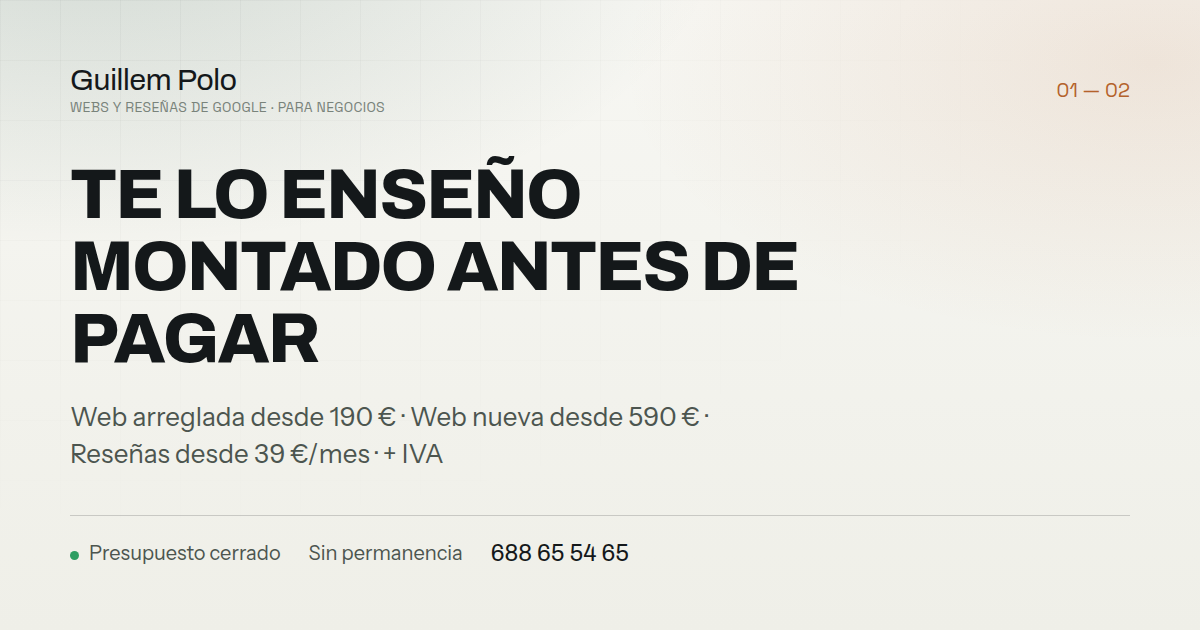
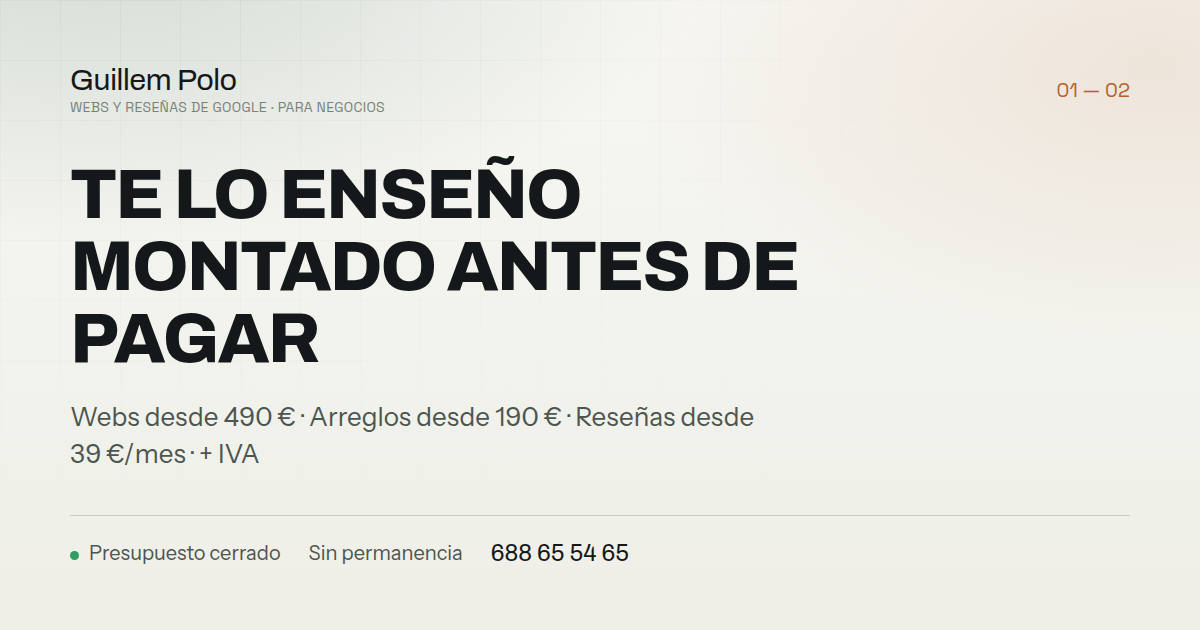
Web básica 490 y completa 590 con cuotas de 15 y 19 €/mes

Changed region(s): [[0.0617, 0.6333, 0.6167, 0.754]]

diff --git a/paginas-web.html b/paginas-web.html
@@ -4,7 +4,7 @@
 <meta charset="utf-8">
 <meta name="viewport" content="width=device-width, initial-scale=1">
 <title>Páginas web para negocios desde 190 € + IVA · Guillem Polo</title>
-<meta name="description" content="Web rápida, visible en Google y que actualizas tú en dos minutos. Textos incluidos, aviso legal y cookies, entrega en 3 días. Arreglo desde 190 € y web nueva desde 590 € + IVA, con precio cerrado.">
+<meta name="description" content="Web rápida, visible en Google y que actualizas tú en dos minutos. Textos incluidos, aviso legal y cookies, entrega en 3 días. Arreglo desde 190 €, web básica 490 € y web completa 590 € + IVA, con precio cerrado.">
 <meta name="author" content="Guillem Polo">
 <meta name="robots" content="index, follow">
 <link rel="canonical" href="https://guillempolo.vercel.app/paginas-web">
@@ -12,14 +12,14 @@
 <meta property="og:locale" content="es_ES">
 <meta property="og:site_name" content="Guillem Polo">
 <meta property="og:title" content="Páginas web para negocios desde 190 € + IVA · Guillem Polo">
-<meta property="og:description" content="Web rápida, visible en Google y que actualizas tú en dos minutos. Textos incluidos, aviso legal y cookies, entrega en 3 días. Arreglo desde 190 € y web nueva desde 590 € + IVA, con precio cerrado.">
+<meta property="og:description" content="Web rápida, visible en Google y que actualizas tú en dos minutos. Textos incluidos, aviso legal y cookies, entrega en 3 días. Arreglo desde 190 €, web básica 490 € y web completa 590 € + IVA, con precio cerrado.">
 <meta property="og:url" content="https://guillempolo.vercel.app/paginas-web">
 <meta property="og:image" content="https://guillempolo.vercel.app/og-paginas-web.png">
 <meta property="og:image:width" content="1200">
 <meta property="og:image:height" content="630">
 <meta name="twitter:card" content="summary_large_image">
 <meta name="twitter:title" content="Páginas web para negocios desde 190 € + IVA · Guillem Polo">
-<meta name="twitter:description" content="Web rápida, visible en Google y que actualizas tú en dos minutos. Textos incluidos, aviso legal y cookies, entrega en 3 días. Arreglo desde 190 € y web nueva desde 590 € + IVA, con precio cerrado.">
+<meta name="twitter:description" content="Web rápida, visible en Google y que actualizas tú en dos minutos. Textos incluidos, aviso legal y cookies, entrega en 3 días. Arreglo desde 190 €, web básica 490 € y web completa 590 € + IVA, con precio cerrado.">
 <meta name="twitter:image" content="https://guillempolo.vercel.app/og-paginas-web.png">
 <meta name="theme-color" content="#F7F7F3">
 <link rel="icon" href="/favicon.svg" type="image/svg+xml">
@@ -89,7 +89,7 @@
       <a class="btn spot" href="#contacto">Que me lo monte <span class="fl">→</span></a>
       <a class="btn ghost spot" href="#ejemplo">Ver los tres ejemplos</a>
     </div>
-    <div class="tiras-h"><div class="tira-h"><b>190 €</b><span>+ IVA · arreglar la que tienes</span></div><div class="tira-h"><b>590 €</b><span>+ IVA · web nueva, pago único</span></div><div class="tira-h"><b>3 días</b><span>desde que tengo el material</span></div><div class="tira-h"><b>25 €/mes</b><span>+ IVA · dominio y mantenimiento</span></div><div class="tira-h"><b>14 días</b><span>de garantía</span></div></div>
+    <div class="tiras-h"><div class="tira-h"><b>190 €</b><span>+ IVA · arreglar la que tienes</span></div><div class="tira-h"><b>490 €</b><span>+ IVA · web nueva, pago único</span></div><div class="tira-h"><b>3 días</b><span>desde que tengo el material</span></div><div class="tira-h"><b>15 €/mes</b><span>+ IVA · dominio y mantenimiento</span></div><div class="tira-h"><b>14 días</b><span>de garantía</span></div></div>
   </div>
 </section>
 <nav class="saltos" aria-label="En esta página"><div class="marco saltos-in"><a href="#ejemplo">Ejemplo en vivo</a><a href="#extras">Extras</a><a href="#precio">Precio</a><a href="#como">Cómo trabajo</a><a href="#preguntas">Preguntas</a><a href="#contacto" class="ult">Pedir presupuesto</a></div></nav>
@@ -192,7 +192,7 @@
       <article class="dato"><span class="n">1 <small>s</small></span><div class="medidor"><i style="width:92%"></i></div>
         <p>Es lo que tarda en abrirse. Sin WordPress, sin veinte plugins y con las fuentes servidas desde tu propio dominio.</p><cite>Medido en móvil, 4G</cite></article>
       <article class="dato"><span class="n">0 <small>€</small></span><div class="medidor"><i style="width:100%"></i></div>
-        <p>De licencias. El alojamiento va en los 25 €/mes + IVA junto con el dominio y el mantenimiento, y puedes contratarlo tú por tu cuenta si prefieres.</p><cite>Sin letra pequeña</cite></article>
+        <p>De licencias. El alojamiento va en la cuota mensual, desde 15 €/mes + IVA, junto con el dominio y el mantenimiento, y puedes contratarlo tú por tu cuenta si prefieres.</p><cite>Sin letra pequeña</cite></article>
       <article class="dato"><span class="n">100 <small>%</small></span><div class="medidor"><i style="width:100%"></i></div>
         <p>Tuya. El dominio va a tu nombre desde el primer día y los archivos te los llevas si un día te vas.</p><cite>Sin quedarte atado</cite></article>
       <article class="dato"><span class="n">7 <small>datos</small></span><div class="medidor"><i style="width:70%"></i></div>
@@ -381,10 +381,10 @@
   <div class="marco">
     <div class="sec-cab rev">
       <span class="eyebrow">03 — Precio</span>
-      <h2>Dos formas<br>de contratarlo</h2>
+      <h2>Tres formas<br>de contratarlo</h2>
       <p>Precio cerrado antes de empezar y sin IVA (21&nbsp;%), que se suma en la factura. Sin permanencia y con 14 días de garantía.</p>
     </div>
-    <div class="planes"><article class="plan tilt rev">
+    <div class="planes tres"><article class="plan tilt rev">
       <span class="plan-eti">Opción A · si ya tienes web</span><h3 class="t4">Arreglo de web</h3>
       <p class="quien-p">Para el que ya tiene web y lo que falla es cómo se ve y cómo le contactan.</p>
       <p class="desde-l">desde</p><p class="precio">190 €<small>+ IVA · pago único</small></p>
@@ -392,16 +392,24 @@
       <ul><li>Que se vea bien en el móvil, sin hacer zoom</li><li>Botón de llamar y de WhatsApp de un toque</li><li>Formulario que llegue de verdad a tu correo</li><li>Fotos y textos al día</li><li>Que cargue rápido, y aviso legal y cookies en regla</li><li>Entrega en 3 días</li></ul>
       <a class="btn ghost spot" href="#contacto">Quiero arreglar mi web <span class="fl">→</span></a>
       <a class="enlace-f" href="#ejemplo">Ver el ejemplo <span class="fl">→</span></a>
+    </article><article class="plan tilt rev">
+      <span class="plan-eti">Opción B</span><h3 class="t4">Web básica</h3>
+      <p class="quien-p">Para existir bien en Google y que te encuentren y te llamen.</p>
+      <p class="precio">490 €<small>+ IVA · pago único</small></p>
+      <p class="cuota">Después, <b>15 €/mes + IVA</b> de dominio, alojamiento y mantenimiento.</p>
+      <ul><li>Una página con hasta 5 secciones</li><li>Textos escritos por mí</li><li>Formulario, botón de llamar y WhatsApp</li><li>Aviso legal y cookies en regla</li><li>Alta en Google y enlace con tu ficha</li><li>Entrega en 3 días</li></ul>
+      <a class="btn ghost spot" href="#contacto">Quiero la web básica <span class="fl">→</span></a>
+      <a class="enlace-f" href="#ejemplo">Ver el ejemplo <span class="fl">→</span></a>
     </article><article class="plan top tilt rev">
-      <span class="plan-eti">Opción B · si no tienes o hay que rehacerla</span><h3 class="t4">Web nueva</h3>
-      <p class="quien-p">La web que de verdad trae clientes, hecha de cero.</p>
-      <p class="desde-l">desde</p><p class="precio">590 €<small>+ IVA · pago único</small></p>
-      <p class="cuota">Después, <b>25 €/mes + IVA</b> de dominio, alojamiento y mantenimiento.</p>
-      <ul><li>Textos escritos por mí</li><li>Formulario, botón de llamar y WhatsApp</li><li>Aviso legal y cookies en regla</li><li>Hasta 6 páginas, una por servicio</li><li>Panel para cambiarla tú en dos minutos</li><li>Preparada para buscar por tu ciudad y tu oficio</li><li>Medición de visitas, llamadas y formularios</li><li>Fotos tratadas y galería de trabajos</li></ul>
-      <a class="btn ghost spot" href="#contacto">Quiero una web nueva <span class="fl">→</span></a>
+      <span class="plan-eti">La que se lleva casi todo el mundo</span><h3 class="t4">Web completa</h3>
+      <p class="quien-p">Por 100 € más, la que de verdad trae clientes.</p>
+      <p class="precio"><span class="antes">790 €</span>590 €<small>+ IVA · pago único</small></p>
+      <span class="ahorro">Ahorras 200 €</span><p class="porque">Por piezas: web básica 490 €, tres páginas extra a 60 € y la preparación para buscar por oficio y ciudad, 120 €.</p><p class="cuota">Después, <b>19 €/mes + IVA</b> con cambios de precios y horarios incluidos.</p>
+      <ul><li class="mas">Todo lo de la básica, y además:</li><li>Hasta 6 páginas, una por servicio</li><li>Panel para cambiarla tú en dos minutos</li><li>Preparada para buscar por tu ciudad y tu oficio</li><li>Medición de visitas, llamadas y formularios</li><li>Fotos tratadas y galería de trabajos</li></ul>
+      <a class="btn ghost spot" href="#contacto">Quiero la web completa <span class="fl">→</span></a>
       <a class="enlace-f" href="#ejemplo">Ver el ejemplo <span class="fl">→</span></a>
     </article></div>
-    <p class="nota-precio rev"><b>Todos los precios son sin IVA (21&nbsp;%).</b> <b>¿Arreglo o web nueva?</b> Si al mirarla veo que arreglarla cuesta más que hacerla de cero, te lo digo antes de cobrarte nada, y si te decides por la nueva te descuento los 190 € del arreglo. <b>Precio cerrado antes de empezar</b>: lo que se firma es lo que se paga, sin sorpresas a mitad de trabajo. Se paga <b>50 % al aceptar la propuesta y 50 % a la entrega</b>, cuando ya la has visto funcionando. El dominio y el alojamiento se contratan a tu nombre: si un día te la quieres llevar, no hay nada que te ate. Por piezas, mi tarifa es: cada página extra 60 €, el panel para editarla tú 90 €, la preparación para buscar por tu oficio y tu ciudad 120 € y la medición de visitas y llamadas 60 €. Los extras que has probado más arriba (calculadora, antes y después, citas online, euskera, carta con QR) van desde 60 € cada uno. ¿Tienda online o algo fuera de lo normal? Se presupuesta aparte, sin compromiso.</p>
+    <p class="nota-precio rev"><b>Todos los precios son sin IVA (21&nbsp;%).</b> <b>¿Arreglo o web nueva?</b> Si al mirarla veo que arreglarla cuesta más que hacerla de cero, te lo digo antes de cobrarte nada, y si te decides por la nueva te descuento los 190 € del arreglo. <b>Precio cerrado antes de empezar</b>: lo que se firma es lo que se paga, sin sorpresas a mitad de trabajo. Se paga <b>50 % al aceptar la propuesta y 50 % a la entrega</b>, cuando ya la has visto funcionando. El dominio y el alojamiento se contratan a tu nombre: si un día te la quieres llevar, no hay nada que te ate. Por piezas, mi tarifa es: cada página extra 60 €, el panel para editarla tú 90 €, la preparación para buscar por tu oficio y tu ciudad 120 € y la medición de visitas y llamadas 60 €. Los extras que has probado más arriba (calculadora, antes y después, citas online, euskera, carta con QR) van desde 60 € cada uno. ¿Tienda online o algo fuera de lo normal? Se presupuesta aparte, sin compromiso. El precio tachado no es una oferta temporal: es lo que costaría contratar esas mismas piezas por separado con mi tarifa de siempre.</p>
   </div>
 </section>
 <section class="sec" id="como">

diff --git a/index.html b/index.html
@@ -4,7 +4,7 @@
 <meta charset="utf-8">
 <meta name="viewport" content="width=device-width, initial-scale=1">
 <title>Webs y reseñas de Google para tu negocio · Guillem Polo</title>
-<meta name="description" content="Te lo enseño montado antes de que pagues nada: tu web arreglada desde 190 € + IVA, web nueva desde 590 € + IVA y reseñas de Google contestadas con tu tono. Precio cerrado, 14 días de garantía y sin permanencia.">
+<meta name="description" content="Te lo enseño montado antes de que pagues nada: tu web arreglada desde 190 € + IVA, web nueva desde 490 € + IVA y reseñas de Google contestadas con tu tono. Precio cerrado, 14 días de garantía y sin permanencia.">
 <meta name="author" content="Guillem Polo">
 <meta name="robots" content="index, follow">
 <link rel="canonical" href="https://guillempolo.vercel.app/">
@@ -12,14 +12,14 @@
 <meta property="og:locale" content="es_ES">
 <meta property="og:site_name" content="Guillem Polo">
 <meta property="og:title" content="Webs y reseñas de Google para tu negocio · Guillem Polo">
-<meta property="og:description" content="Te lo enseño montado antes de que pagues nada: tu web arreglada desde 190 € + IVA, web nueva desde 590 € + IVA y reseñas de Google contestadas con tu tono. Precio cerrado, 14 días de garantía y sin permanencia.">
+<meta property="og:description" content="Te lo enseño montado antes de que pagues nada: tu web arreglada desde 190 € + IVA, web nueva desde 490 € + IVA y reseñas de Google contestadas con tu tono. Precio cerrado, 14 días de garantía y sin permanencia.">
 <meta property="og:url" content="https://guillempolo.vercel.app/">
 <meta property="og:image" content="https://guillempolo.vercel.app/og-index.png">
 <meta property="og:image:width" content="1200">
 <meta property="og:image:height" content="630">
 <meta name="twitter:card" content="summary_large_image">
 <meta name="twitter:title" content="Webs y reseñas de Google para tu negocio · Guillem Polo">
-<meta name="twitter:description" content="Te lo enseño montado antes de que pagues nada: tu web arreglada desde 190 € + IVA, web nueva desde 590 € + IVA y reseñas de Google contestadas con tu tono. Precio cerrado, 14 días de garantía y sin permanencia.">
+<meta name="twitter:description" content="Te lo enseño montado antes de que pagues nada: tu web arreglada desde 190 € + IVA, web nueva desde 490 € + IVA y reseñas de Google contestadas con tu tono. Precio cerrado, 14 días de garantía y sin permanencia.">
 <meta name="twitter:image" content="https://guillempolo.vercel.app/og-index.png">
 <meta name="theme-color" content="#F7F7F3">
 <link rel="icon" href="/favicon.svg" type="image/svg+xml">
@@ -261,20 +261,23 @@
             </ul>
             <div class="planes">
               <article class="plan tilt">
-                <span class="plan-eti">Si ya tienes web</span><h4>Arreglo de tu web</h4>
-                <p class="desde-l">desde</p><p class="precio">190 €<small>+ IVA · pago único</small></p>
-                <p class="cuota">Sin cuota: mantienes tu dominio y tu alojamiento.</p>
-                <ul><li>Que se vea bien en el móvil</li><li>Enlaces, formularios y botones que funcionan</li><li>Botón de llamar y de WhatsApp</li><li>Retoques de diseño sin rehacerla</li></ul>
+                <span class="plan-eti">Opción A</span><h4>Web básica</h4>
+                <p class="precio">490 €<small>+ IVA · pago único</small></p>
+                <p class="cuota">Después, 15 €/mes + IVA de dominio, alojamiento y mantenimiento.</p>
+                <ul><li>Una página con hasta 5 secciones</li><li>Textos escritos por mí</li><li>Botón de llamar y de WhatsApp</li><li>Aviso legal y cookies en regla</li></ul>
                 <a class="enlace-f" href="/paginas-web#precio">Ver la página completa <span class="fl">→</span></a>
               </article>
               <article class="plan top tilt">
-                <span class="plan-eti">Si no tienes o hay que rehacerla</span><h4>Web nueva</h4>
-                <p class="desde-l">desde</p><p class="precio">590 €<small>+ IVA · pago único</small></p>
-                <p class="cuota">Después, 25 €/mes + IVA de dominio y mantenimiento.</p>
-                <ul><li>Hasta 6 páginas, una por servicio</li><li>Textos escritos por mí</li><li>Botón de llamar y de WhatsApp</li><li>Panel para cambiarla tú</li><li>Aviso legal y cookies en regla</li></ul>
-                <a class="enlace-f" href="/paginas-web">Ver la página completa <span class="fl">→</span></a>
+                <span class="plan-eti">Opción B · la más contratada</span><h4>Web completa</h4>
+                <p class="precio"><span class="antes">790 €</span>590 €<small>+ IVA · pago único</small></p>
+                <span class="ahorro">Ahorras 200 €</span>
+                <p class="porque">Por piezas: 490 € la básica, 180 € las tres páginas extra y 120 € la preparación para buscar por oficio y ciudad.</p>
+                <p class="cuota">Después, 19 €/mes + IVA con cambios de precios y horarios incluidos.</p>
+                <ul><li class="mas">Todo lo anterior, y además:</li><li>Hasta 6 páginas, una por servicio</li><li>Panel para cambiarla tú</li><li>Medición de visitas y llamadas</li></ul>
+                <a class="enlace-f" href="/paginas-web#precio">Ver la página completa <span class="fl">→</span></a>
               </article>
             </div>
+            <p class="arreglo-nota">¿Ya tienes web y lo que falla es cómo se ve? <a class="enlace-f" href="/paginas-web#precio">La arreglo desde 190 € + IVA, sin cuota <span class="fl">→</span></a></p>
             <p class="arreglo-nota">Extras que puedes probar ya: calculadora de presupuesto, citas online, antes y después, euskera, carta con QR y panel para editarla. <a class="enlace-f" href="/paginas-web#extras">Pruébalos <span class="fl">→</span></a></p>
           </div>
           <div class="demo">
@@ -620,7 +623,8 @@
       </div>
       <table class="tabla-com">
         <tr><td>Arreglo de web de 190 € + IVA</td><td>38 €</td></tr>
-        <tr><td>Web nueva de 590 € + IVA</td><td>118 €</td></tr>
+        <tr><td>Web básica de 490 € + IVA</td><td>98 €</td></tr>
+        <tr><td>Web completa de 590 € + IVA</td><td>118 €</td></tr>
         <tr><td>Reseñas de 390 € + IVA</td><td>78 €</td></tr>
         <tr><td>Se paga</td><td>a 30 días</td></tr>
       </table>
@@ -654,7 +658,7 @@
       </details>
       <details>
         <summary><span class="mas"></span>¿Hay cuota mensual obligatoria?</summary>
-        <p class="resp">Solo la del dominio y el alojamiento, 25 €/mes + IVA, y puedes contratarlos tú por tu cuenta si prefieres. Las reseñas sí llevan cuota, desde 39 €/mes + IVA, porque se contestan todos los días; se cancela cuando quieras. El arreglo de una web no lleva cuota.</p>
+        <p class="resp">Solo la del dominio, el alojamiento y el mantenimiento, desde 15 €/mes + IVA, y puedes contratarlos tú por tu cuenta si prefieres. Las reseñas sí llevan cuota, desde 39 €/mes + IVA, porque se contestan todos los días; se cancela cuando quieras. El arreglo de una web no lleva cuota.</p>
       </details>
       <details>
         <summary><span class="mas"></span>¿Las respuestas a las reseñas suenan a robot?</summary>
@@ -701,7 +705,7 @@
             <label for="f-servicio">Qué te interesa</label>
             <select id="f-servicio" name="servicio">
               <option>Arreglar la web que ya tengo</option>
-              <option>Web nueva</option>
+              <option>Web nueva (básica o completa)</option>
               <option>Reseñas de Google contestadas</option>
               <option>Todavía no lo sé, quiero que me lo digas tú</option>
             </select>

diff --git a/socios.html b/socios.html
@@ -269,7 +269,8 @@ a:focus-visible{outline:2px solid var(--bosque);outline-offset:3px;border-radius
       <div class="tabla rev">
         <div class="fila cab"><span>Si entra un cliente de</span><span>Tu comisión</span></div>
         <div class="fila"><span class="g">Arreglo de web · 190 € + IVA</span><b>38 €</b></div>
-        <div class="fila"><span class="g">Web nueva · 590 € + IVA</span><b>118 €</b></div>
+        <div class="fila"><span class="g">Web básica · 490 € + IVA</span><b>98 €</b></div>
+        <div class="fila"><span class="g">Web completa · 590 € + IVA</span><b>118 €</b></div>
         <div class="fila"><span class="g">Reseñas · 390 € + 39 €/mes, + IVA</span><b>78 €</b></div>
       </div>
       <div class="resumen rev d1">

diff --git a/sitio.css b/sitio.css
@@ -1389,3 +1389,5 @@ input[type=range]{width:100%;accent-color:var(--bosque);height:28px;cursor:point
 .lg-tabla td:first-child{color:var(--tinta);font-weight:600}
 
 .desde-l{margin:12px 0 -8px;font-size:.78rem;font-weight:600;color:var(--tinta-3);text-transform:uppercase;letter-spacing:.1em}
+
+.precio{flex-wrap:wrap;row-gap:4px;white-space:nowrap}
